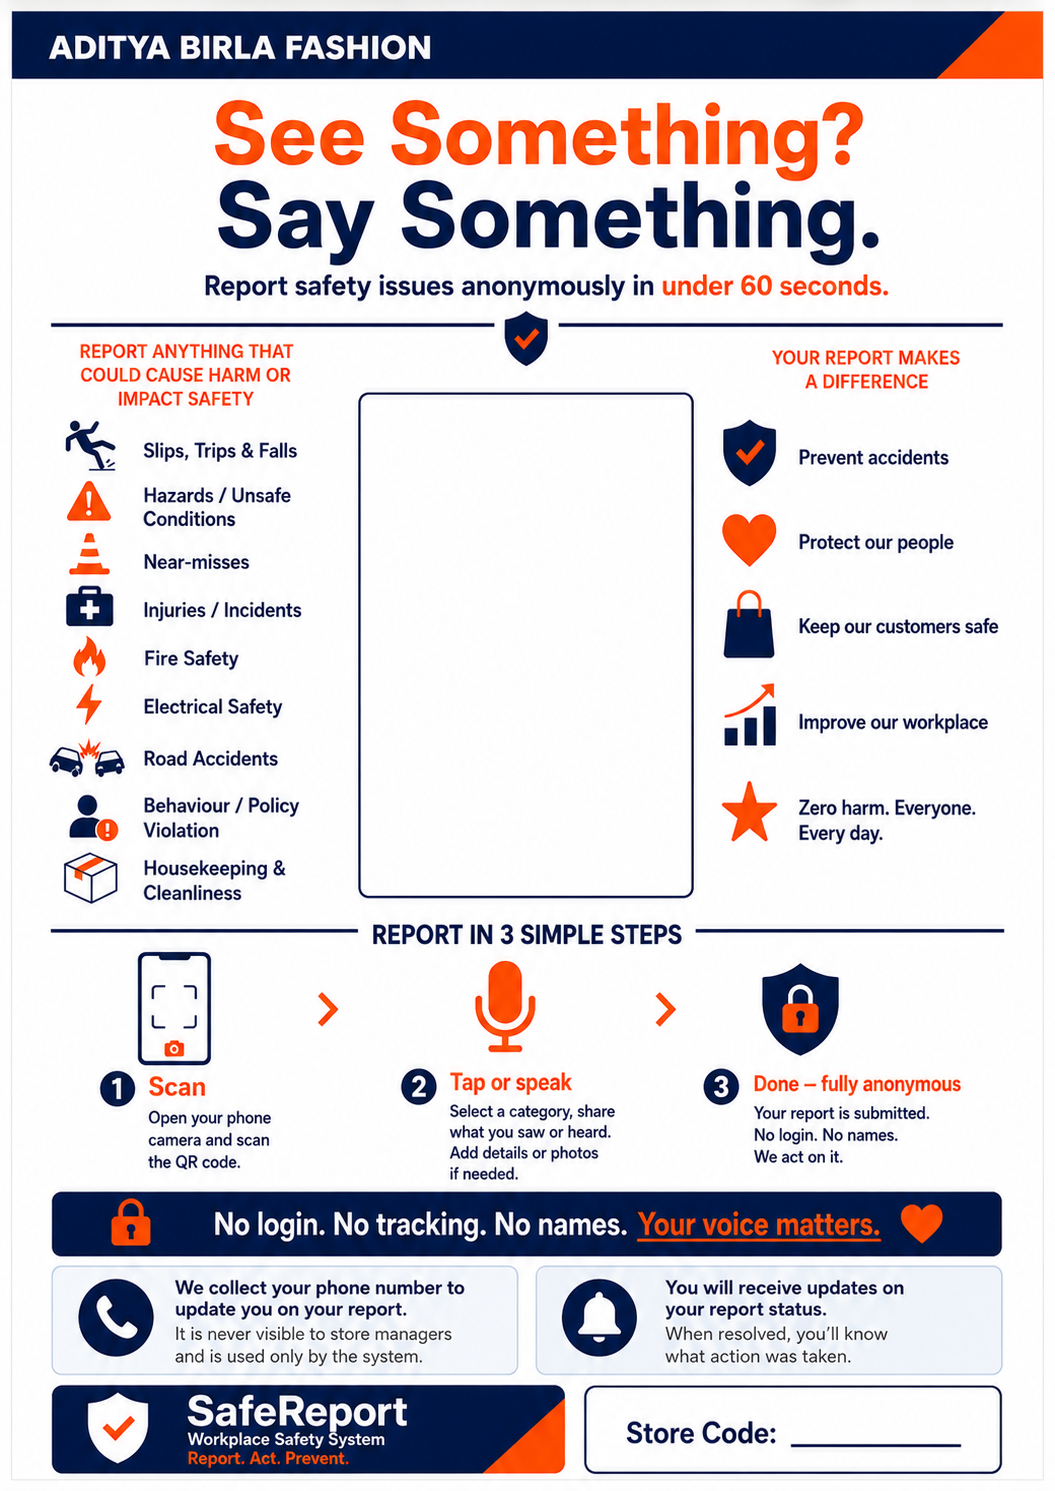
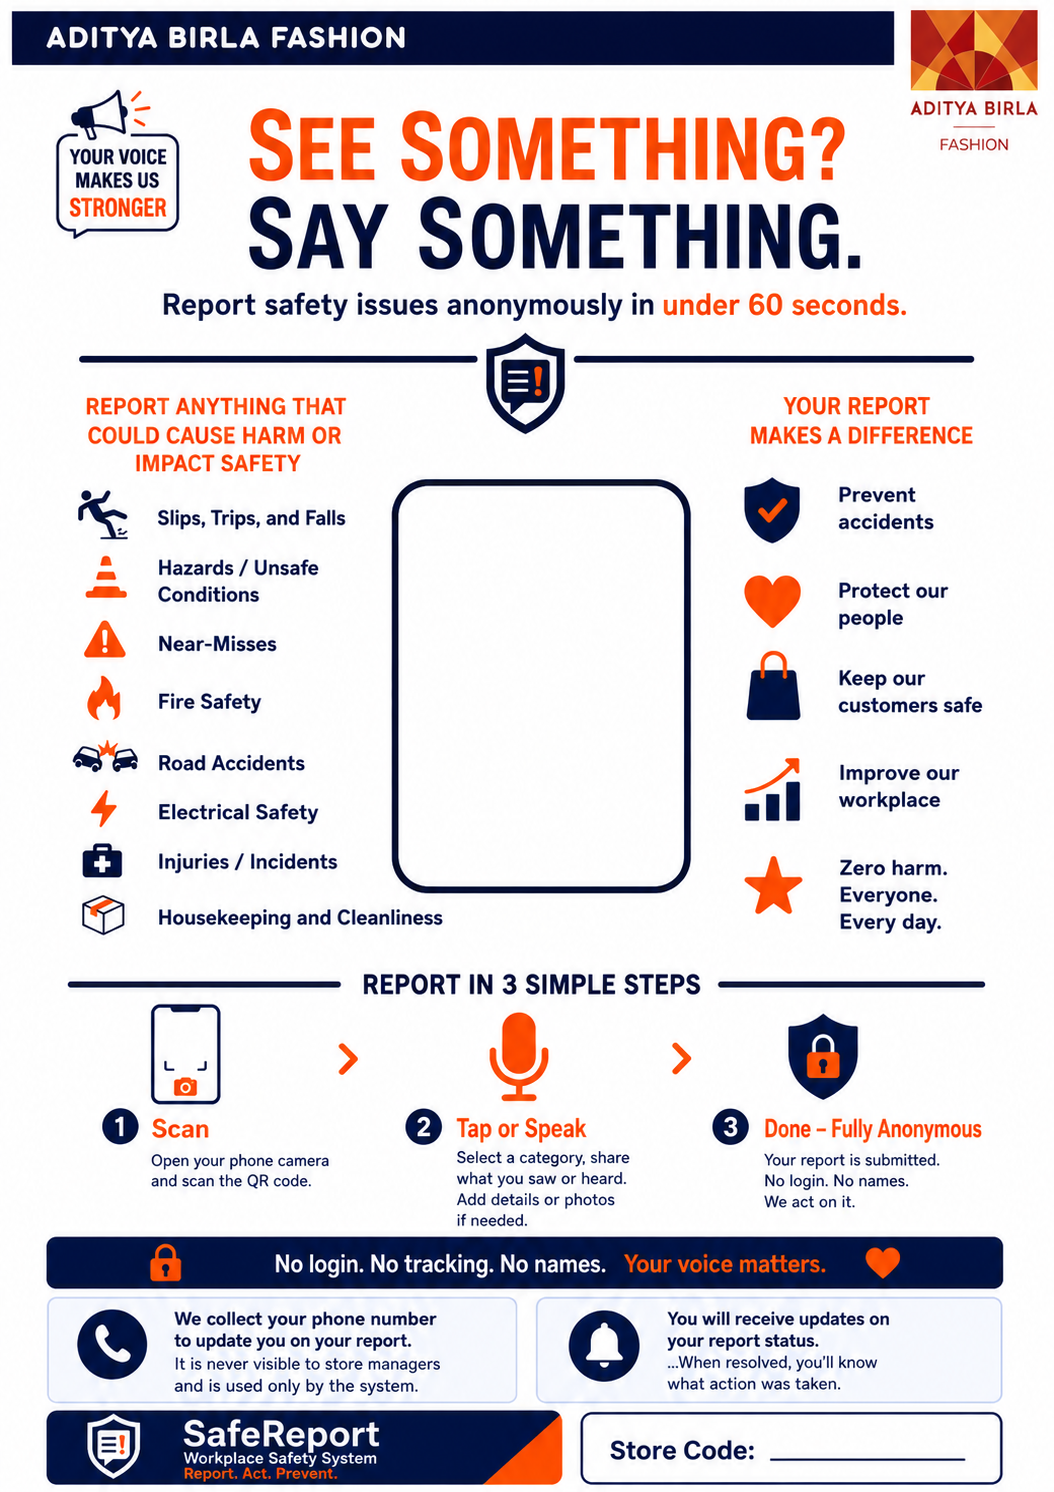
poster: swap to v4 template (Zero harm / camera typo fixes)
- public/poster-template.png: v4 'See Something? Say Something.' redesign
  from the art team. Fixes 'Zaro harm' -> 'Zero harm' and 'camers' ->
  'camera' on step 1. Title case polish on step labels and Oxford comma
  in the hazards list, no functional difference for reporters.
- lib/poster.ts: re-measured overlay constants for the new layout.
  Placeholder is at PDF x=225..386, y=343..568; store code underline at
  x=435..544, y=19. Verified via scripts/preview-poster.ts that the QR
  centres in the bordered box and the SAP code sits cleanly on the
  underscore.
- .gitattributes: NEW. Marks *.png and other binary types as binary so
  core.autocrlf=true (the Windows-Git default) stops stripping CR bytes
  from inside them. Without this, the first attempt to commit the v4
  PNG silently lost 37 KB of bytes — the staged blob was 1,281,210 vs
  the 1,318,548 on disk. The previously committed v3 PNG was the same
  way (1,288,333 bytes vs whatever the real source was) and pdf-lib
  happened to tolerate it, but we shouldn't keep relying on luck.
- scripts/measure-template.py: new helper that auto-measures the QR
  placeholder + store code underline from any future template swap.
  Uses scipy.ndimage connected components on the white interior and the
  bottom-right dark band. Sweeps probe Ys so it doesn't trip on the
  page-background component when the placeholder shifts vertically.
- scripts/preview-poster.ts: new verification helper. Reads constants
[…]

Changed region(s): [[0.0, 0.0, 1.0, 1.0]]

diff --git a/scripts/preview-poster.ts b/scripts/preview-poster.ts
@@ -1,0 +1,103 @@
+/**
+ * scripts/preview-poster.ts — render one test poster so we can visually
+ * verify the QR + store-code overlay is positioned correctly over the
+ * current public/poster-template.png.
+ *
+ * Usage:
+ *   tsx scripts/preview-poster.ts                # default test code
+ *   tsx scripts/preview-poster.ts ALS-CHN-042    # custom SAP code
+ *
+ * Output: out/poster-preview.pdf
+ *
+ * We can't import lib/poster.ts directly under bare tsx because it pulls
+ * Next.js's "server-only" virtual module (unresolvable outside the
+ * Next.js bundler). This script duplicates the small bit of pdf-lib glue
+ * we need — the layout constants are read straight from poster.ts via
+ * regex so the two files can't drift.
+ */
+
+import { PDFDocument, StandardFonts, rgb } from "pdf-lib"
+import QRCode from "qrcode"
+import { mkdir, readFile, writeFile } from "node:fs/promises"
+import { resolve } from "node:path"
+
+const PAGE_W = 595.28
+const PAGE_H = 841.89
+
+async function extractConstants() {
+  const src = await readFile(resolve("lib/poster.ts"), "utf8")
+  const grab = (name: string) => {
+    const m = src.match(new RegExp(`const\\s+${name}\\s*=\\s*([0-9.]+)`))
+    if (!m) throw new Error(`could not extract ${name} from lib/poster.ts`)
+    return Number(m[1])
+  }
+  return {
+    QR_LEFT: grab("QR_LEFT"),
+    QR_RIGHT: grab("QR_RIGHT"),
+    QR_TOP: grab("QR_TOP"),
+    QR_BOTTOM: grab("QR_BOTTOM"),
+    CODE_UNDERLINE_X_START: grab("CODE_UNDERLINE_X_START"),
+    CODE_UNDERLINE_X_END: grab("CODE_UNDERLINE_X_END"),
+    CODE_UNDERLINE_Y: grab("CODE_UNDERLINE_Y"),
+  }
+}
+
+async function main() {
+  const code = process.argv[2] ?? "ALS-CHN-042"
+  const baseUrl = process.env.APP_URL ?? "https://safereport.example"
+  const c = await extractConstants()
+  console.log("Using constants from lib/poster.ts:", c)
+
+  const doc = await PDFDocument.create()
+  const helvBold = await doc.embedFont(StandardFonts.HelveticaBold)
+  const templateBytes = await readFile(resolve("public/poster-template.png"))
+  const templateImg = await doc.embedPng(new Uint8Array(templateBytes))
+
+  const page = doc.addPage([PAGE_W, PAGE_H])
+  page.drawImage(templateImg, { x: 0, y: 0, width: PAGE_W, height: PAGE_H })
+
+  const target = `${baseUrl.replace(/\/$/, "")}/r/${code}?src=qr`
+  const qrPng = await QRCode.toBuffer(target, {
+    type: "png",
+    errorCorrectionLevel: "H",
+    margin: 1,
+    width: 900,
+    color: { dark: "#0a1f46", light: "#ffffff" },
+  })
+  const qrImg = await doc.embedPng(new Uint8Array(qrPng))
+
+  const placeholderW = c.QR_RIGHT - c.QR_LEFT
+  const placeholderH = c.QR_TOP - c.QR_BOTTOM
+  const inset = 8
+  const qrSize = Math.min(placeholderW, placeholderH) - inset * 2
+  const cx = (c.QR_LEFT + c.QR_RIGHT) / 2
+  const cy = (c.QR_BOTTOM + c.QR_TOP) / 2
+  page.drawImage(qrImg, {
+    x: cx - qrSize / 2,
+    y: cy - qrSize / 2,
+    width: qrSize,
+    height: qrSize,
+  })
+
+  const underlineW = c.CODE_UNDERLINE_X_END - c.CODE_UNDERLINE_X_START
+  let codeSize = 14
+  while (helvBold.widthOfTextAtSize(code, codeSize) > underlineW - 6 && codeSize > 8) {
+    codeSize -= 0.5
+  }
+  const codeW = helvBold.widthOfTextAtSize(code, codeSize)
+  const codeX = (c.CODE_UNDERLINE_X_START + c.CODE_UNDERLINE_X_END) / 2 - codeW / 2
+  const codeY = c.CODE_UNDERLINE_Y + 4
+  const NAVY = rgb(0x0a / 255, 0x1f / 255, 0x46 / 255)
+  page.drawText(code, { x: codeX, y: codeY, size: codeSize, font: helvBold, color: NAVY })
+
+  const pdfBytes = await doc.save()
+  await mkdir(resolve("out"), { recursive: true })
+  const outPath = resolve("out", "poster-preview.pdf")
+  await writeFile(outPath, pdfBytes)
+  console.log(`wrote ${outPath} (${(pdfBytes.byteLength / 1024).toFixed(1)} KB, code=${code})`)
+}
+
+main().catch((err) => {
+  console.error(err)
+  process.exit(1)
+})

diff --git a/lib/poster.ts b/lib/poster.ts
@@ -21,32 +21,40 @@ import { resolve } from "node:path"
  * part that needs to vary per store, so the cost is paid once at template
  * design time and never again.
  *
- * Template dimensions are 1055 × 1491 px (A4 portrait aspect, drawn to fill
- * the full 595.28 × 841.89 pt page). The two overlay regions were measured
- * once from the rendered template:
+ * Template dimensions: A4 portrait aspect (drawn to fill the full
+ * 595.28 × 841.89 pt page). The currently installed template is the v4
+ * "See Something? Say Something." redesign (1054 × 1492 px, May 2026 —
+ * supersedes the v3 hand-laid version that had a 1055 × 1491 px export).
+ * The two overlay regions were measured from the rendered template:
  *
  *   - QR placeholder (the bordered white square in the centre column):
- *       x ≈ 205–388 pt,  y ≈ 336–620 pt  (PDF coords, bottom-up)
+ *       x ≈ 225–386 pt,  y ≈ 343–568 pt  (PDF coords, bottom-up)
  *   - Store Code underline (bottom-right):
- *       y ≈ 26 pt,  x ≈ 446–542 pt
+ *       y ≈ 19 pt,  x ≈ 435–544 pt
  *
- * If the template image is ever regenerated, re-measure these coordinates
- * (scripts/measure-template.py in the repo's history shows the technique).
+ * If the template image is ever regenerated, drop the new PNG into
+ * public/poster-template.png and re-measure with:
+ *
+ *     python3 scripts/measure-template.py
+ *
+ * Paste the printed constants back into the block below. The PNG swap
+ * and the constants update must land in the same change — a mismatched
+ * pair will misplace the QR and the store code on the printed poster.
  */
 
 const PAGE_W = 595.28
 const PAGE_H = 841.89
 
-// QR placeholder bounds (measured from public/poster-template.png).
-const QR_LEFT   = 205
-const QR_RIGHT  = 388
-const QR_TOP    = 620
-const QR_BOTTOM = 336
+// QR placeholder bounds (measured from public/poster-template.png — v4).
+const QR_LEFT   = 225
+const QR_RIGHT  = 386
+const QR_TOP    = 568
+const QR_BOTTOM = 343
 
 // Store Code underline (measured from same template).
-const CODE_UNDERLINE_Y       = 27
-const CODE_UNDERLINE_X_START = 446
-const CODE_UNDERLINE_X_END   = 542
+const CODE_UNDERLINE_Y       = 19
+const CODE_UNDERLINE_X_START = 435
+const CODE_UNDERLINE_X_END   = 544
 
 const NAVY = rgb(0x0A / 255, 0x1F / 255, 0x46 / 255)
 

diff --git a/scripts/measure-template.py b/scripts/measure-template.py
@@ -1,0 +1,181 @@
+"""Measure overlay coordinates from public/poster-template.png.
+
+Prints the seven PDF-space constants that lib/poster.ts uses to overlay the
+QR code and the Store Code text on the baked template.
+
+Run after any template swap (e.g. the v4 "See Something? Say Something."
+redesign in May 2026) to get exact numbers, then drop them into the
+constants block at the top of lib/poster.ts.
+
+Detection strategy is structural — fit-for-purpose for the ABF template
+family, not a general OCR pass:
+
+  - The QR placeholder is the only large hollow white rectangle in the
+    central column. Label white connected components, find the one
+    containing the probe point (centre column, ~30% down the page), take
+    its bounding box. That bbox is the placeholder INTERIOR; poster.ts
+    applies its own small inset on top.
+  - The Store Code underline is the only long horizontal black line in
+    the bottom-right corner. Label dark components there, pick the one
+    whose aspect ratio is most line-like.
+
+Dependencies: numpy, Pillow, scipy. Install with:
+  pip install scipy --break-system-packages
+
+Usage:  python3 scripts/measure-template.py [path/to/template.png]
+"""
+
+from __future__ import annotations
+
+import sys
+from pathlib import Path
+
+import numpy as np
+from PIL import Image
+from scipy import ndimage
+
+PAGE_W = 595.28
+PAGE_H = 841.89
+
+QR_PROBE_X = 0.50
+QR_PROBE_Y = 0.30
+
+CODE_SEARCH_X = (0.65, 0.99)
+CODE_SEARCH_Y = (0.92, 0.99)
+
+DARK_THRESHOLD = 80
+LIGHT_THRESHOLD = 220
+
+
+def measure(path):
+    im = Image.open(path).convert("L")
+    arr = np.asarray(im)
+    h, w = arr.shape
+
+    qr = _find_qr_placeholder(arr, w, h)
+    code = _find_code_underline(arr, w, h)
+
+    def x_to_pt(px):
+        return px / w * PAGE_W
+
+    def y_to_pt(py):
+        return (1 - py / h) * PAGE_H
+
+    return {
+        "QR_LEFT": x_to_pt(qr["left"]),
+        "QR_RIGHT": x_to_pt(qr["right"]),
+        "QR_TOP": y_to_pt(qr["top"]),
+        "QR_BOTTOM": y_to_pt(qr["bottom"]),
+        "CODE_UNDERLINE_X_START": x_to_pt(code["left"]),
+        "CODE_UNDERLINE_X_END": x_to_pt(code["right"]),
+        "CODE_UNDERLINE_Y": y_to_pt(code["y"]),
+    }
+
+
+def _find_qr_placeholder(arr, w, h):
+    """Label white components; sweep probe Y values to find the placeholder.
+
+    The placeholder's vertical position drifts between template versions
+    (v3 was at image y=395..894, v4 at y=486..885). We sweep probe Ys
+    down the central column, label white connected components for each,
+    and pick the smallest "page-scale" component — that's the placeholder
+    interior. The page background is one giant component (~70% of pixels);
+    icons / margins are tiny components. The placeholder sits in between.
+    """
+    light = arr >= LIGHT_THRESHOLD
+    labeled, _ = ndimage.label(light)
+
+    page_pixels = w * h
+    candidates = []
+    px = int(QR_PROBE_X * w)
+    for frac in (0.30, 0.35, 0.40, 0.45, 0.50, 0.55):
+        py = int(frac * h)
+        lbl = labeled[py, px]
+        if lbl == 0:
+            continue
+        size = int((labeled == lbl).sum())
+        # Reject the page-background component (huge) and tiny icon regions.
+        if size > page_pixels * 0.5:
+            continue
+        if size < page_pixels * 0.02:
+            continue
+        candidates.append((size, lbl, py))
+
+    if not candidates:
+        raise SystemExit(
+            "No placeholder-sized white region found at any sweep probe. "
+            "Check QR_PROBE_X or the template layout."
+        )
+
+    # Multiple sweep Ys may land on the same placeholder — dedupe by label.
+    chosen_label = candidates[0][1]
+    ys, xs = np.where(labeled == chosen_label)
+    return {
+        "left": int(xs.min()),
+        "right": int(xs.max()),
+        "top": int(ys.min()),
+        "bottom": int(ys.max()),
+    }
+
+
+def _find_code_underline(arr, w, h):
+    x0, x1 = int(CODE_SEARCH_X[0] * w), int(CODE_SEARCH_X[1] * w)
+    y0, y1 = int(CODE_SEARCH_Y[0] * h), int(CODE_SEARCH_Y[1] * h)
+
+    sub = arr[y0:y1, x0:x1]
+    dark = sub < DARK_THRESHOLD
+    labeled, n = ndimage.label(dark)
+    if n == 0:
+        raise SystemExit("No dark pixels found in the Store Code search region.")
+
+    best_score = -1.0
+    best_comp = -1
+    best_box = (0, 0, 0, 0)
+    for lbl in range(1, n + 1):
+        ys, xs = np.where(labeled == lbl)
+        if xs.size < 30:
+            continue
+        width = xs.max() - xs.min() + 1
+        height = ys.max() - ys.min() + 1
+        if height == 0 or width < 50:
+            continue
+        aspect = width / height
+        if aspect < 8:
+            continue
+        score = width * aspect
+        if score > best_score:
+            best_score = score
+            best_comp = lbl
+            best_box = (int(xs.min()), int(xs.max()), int(ys.min()), int(ys.max()))
+
+    if best_comp < 0:
+        raise SystemExit(
+            "No line-shaped dark component found in the Store Code region."
+        )
+
+    xmin, xmax, ymin, ymax = best_box
+    y_centre = (ymin + ymax) // 2
+    return {"left": x0 + xmin, "right": x0 + xmax, "y": y0 + y_centre}
+
+
+def main(argv):
+    if len(argv) > 1:
+        path = Path(argv[1])
+    else:
+        path = Path(__file__).resolve().parent.parent / "public" / "poster-template.png"
+    if not path.exists():
+        print("Template not found: %s" % path, file=sys.stderr)
+        return 1
+
+    coords = measure(path)
+    im = Image.open(path)
+    print("# Measured from %s (%dx%d)" % (path.name, im.size[0], im.size[1]))
+    print("# Paste into lib/poster.ts:")
+    print()
+    for k, v in coords.items():
+        print("const %-26s = %.0f" % (k, v))
+    return 0
+
+
+if __name__ == "__main__":
+    raise SystemExit(main(sys.argv))
